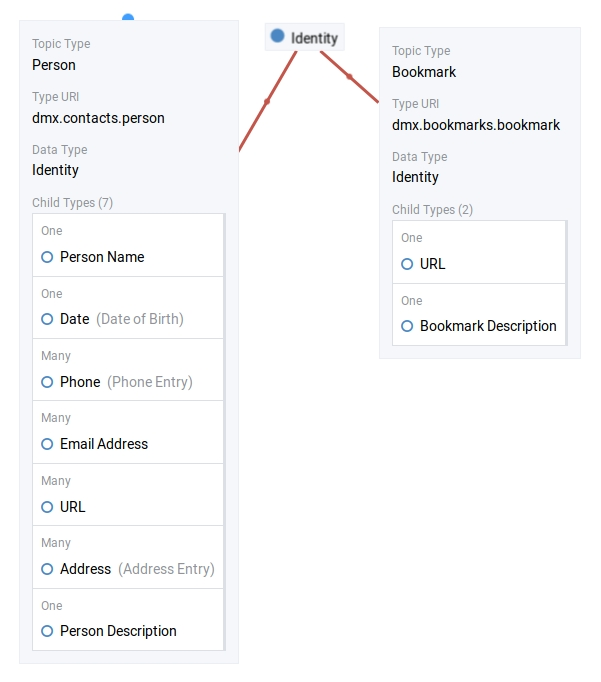
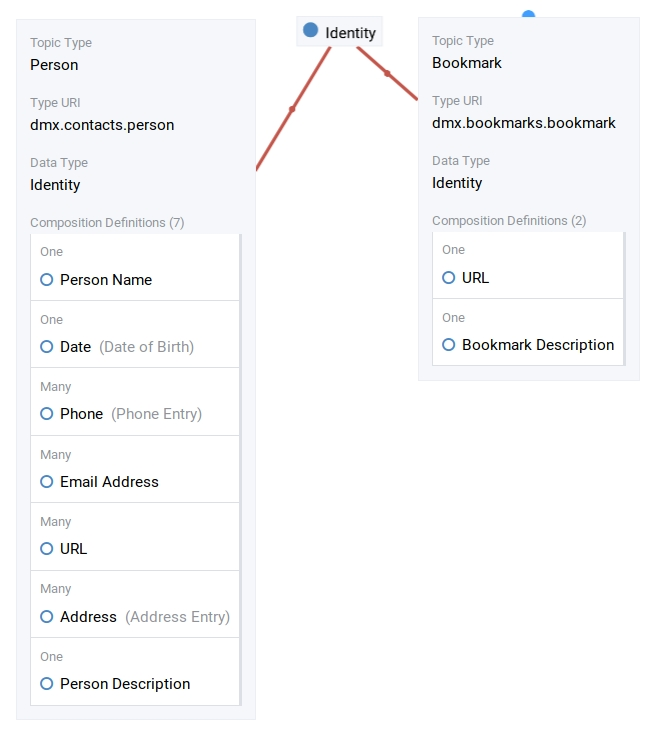
Updated screen shots as required by https://git.dmx.systems/dmx-platform/dmx-platform/issues/224

diff --git a/docs/user.rst b/docs/user.rst
@@ -625,7 +625,8 @@ You can assign colors to association types just as you can assign icons to topic
 Select the association type on your map, open the details panel and open the fourth tab "View".
 Choose a color for your association type and save it.
 
-.. image:: _static/new-assoc-color.jpg
+.. image:: _static/new-assoc-color.png
+    :width: 500
 
 .. _user-navigation:
 
